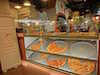
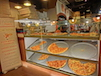
Optimized pizza

diff --git a/views/pizza.html b/views/pizza.html
@@ -36,7 +36,7 @@
     </div>
     <div id="callToAction" class="row">
       <div class="col-md-4">
-        <img src="images/pizzeria.jpg" class="img-responsive"> <!-- Image credit to: http://commons.wikimedia.org/wiki/File:HK_TST_night_%E5%98%89%E8%98%AD%E9%81%93_Granville_Road_restaurant_Paisano's_Pizzeria_pizza_Dec-2013.JPG -->
+        <img src="images/pizzeria-not.jpg" class="img-responsive"> <!-- Image credit to: http://commons.wikimedia.org/wiki/File:HK_TST_night_%E5%98%89%E8%98%AD%E9%81%93_Granville_Road_restaurant_Paisano's_Pizzeria_pizza_Dec-2013.JPG -->
       </div>
       <div class="col-md-8">
         <div class="row">
